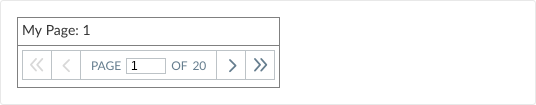
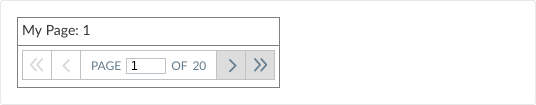
feat(PaginationControl): CSS variables cleanup and updates to ellipses per UX review.

Changed region(s): [[0.3881, 0.4857, 0.5373, 0.7714]]

diff --git a/src/styles/components/pagination-control.css b/src/styles/components/pagination-control.css
@@ -3,6 +3,11 @@
 :root {
   /* this color may change once colors are finalized. Not part of Yung's UXPin*/
   --mainPaginationColor: #657d8e;
+  --mainPaginationBorderColor: var(--silverGray);
+  --disabledColor: var(--gainsboroGray);
+  --paginationBackgroundColor: white;
+  --paginationHeight: 30px;
+  --paginationSpaceBetweenWords: 5px;
 }
 
 /* For Firefox */
@@ -15,24 +20,24 @@ input[type=number]::-webkit-outer-spin-button {
 
 .pagination {
   display: inline-block;
-  height: 30px;
+  height: var(--paginationHeight);
   color: var(--mainPaginationColor);
   margin: 0 4px;
+  background-color: var(--paginationBackgroundColor);
 }
 
 .pagination__button {
-  border: 1px solid var(--silverGray);
+  border: 1px solid var(--mainPaginationBorderColor);
   color: var(--mainPaginationColor);
   cursor: pointer;
   display: inline-block;
   padding: 0px;
   font-size: 28px;
-  max-height: 30px;
-  background-color: white;
+  max-height: var(--paginationHeight);
 }
 
 .pagination__button:hover{
-  color: white;
+  color: var(--paginationBackgroundColor);
   background-color: var(--primaryBlue);
 }
 
@@ -49,39 +54,48 @@ input[type=number]::-webkit-outer-spin-button {
 }
 
 .pagination__page-number {
-  border: 1px solid var(--silverGray);
+  border: 1px solid var(--mainPaginationBorderColor);
   color: var(--mainPaginationColor);
   font-size: var(--small);
   padding: 0 10px;
-  line-height: 30px;
+  line-height: var(--paginationHeight);
   text-transform: uppercase;
   text-align: center;
   cursor: default;
   display: inline-block;
   vertical-align: top;
-  height: 30px;
-  max-height: 30px;
-  background-color: white;
+  height: var(--paginationHeight);
+  max-height: var(--paginationHeight);
+}
+
+.pagination__page-number * {
+  vertical-align: middle;
+}
+
+.pagination__page-number_total-pages-unknown {
+  font-size: 20px;
+  line-height: calc(var(--paginationHeight)/2);
+  vertical-align: baseline;
 }
 
 .pagination__input {
-  border: 1px solid #bdc3c7;
+  border: 1px solid var(--mainPaginationBorderColor);
   width: 40px;
   height: 16px;
-  margin: 7px 5px;
+  margin: 7px var(--paginationSpaceBetweenWords);
   padding: 1px 4px;
 }
 
 .pagination__page-total {
-  margin-left: 5px;
-  line-height: 30px;
+  margin-left: var(--paginationSpaceBetweenWords);
+  line-height: var(--paginationHeight);
 }
 
 .pagination :disabled,
 .pagination :disabled:hover {
-  color: var(--gainsboroGray);
+  color: var(--disabledColor);
   cursor: not-allowed;
-  background-color: white;
+  background-color: var(--paginationBackgroundColor);
 }
 
 .pagination_disabled:focus {

diff --git a/src/components/native/PaginationControl/PaginationControl.jsx b/src/components/native/PaginationControl/PaginationControl.jsx
@@ -126,7 +126,10 @@ export default class PaginationControl extends React.PureComponent {
             key={`${page}`} defaultValue={`${page}`}
             onBlur={this.handleUserInput} onKeyDown={this.handleInputKeyDown} {...isDisabled()} />
           <span>of</span>
-          <span className='pagination__page-total'>{totalPages || '...'}</span>
+          <span className='pagination__page-total'>
+            {totalPages || <em className='pagination__page-number_total-pages-unknown'>...</em>}
+
+          </span>
         </div>
         <button className={`pagination__button pagination__next`}
           onClick={this.gotoNextPage} {...isDisabled('next')} >
